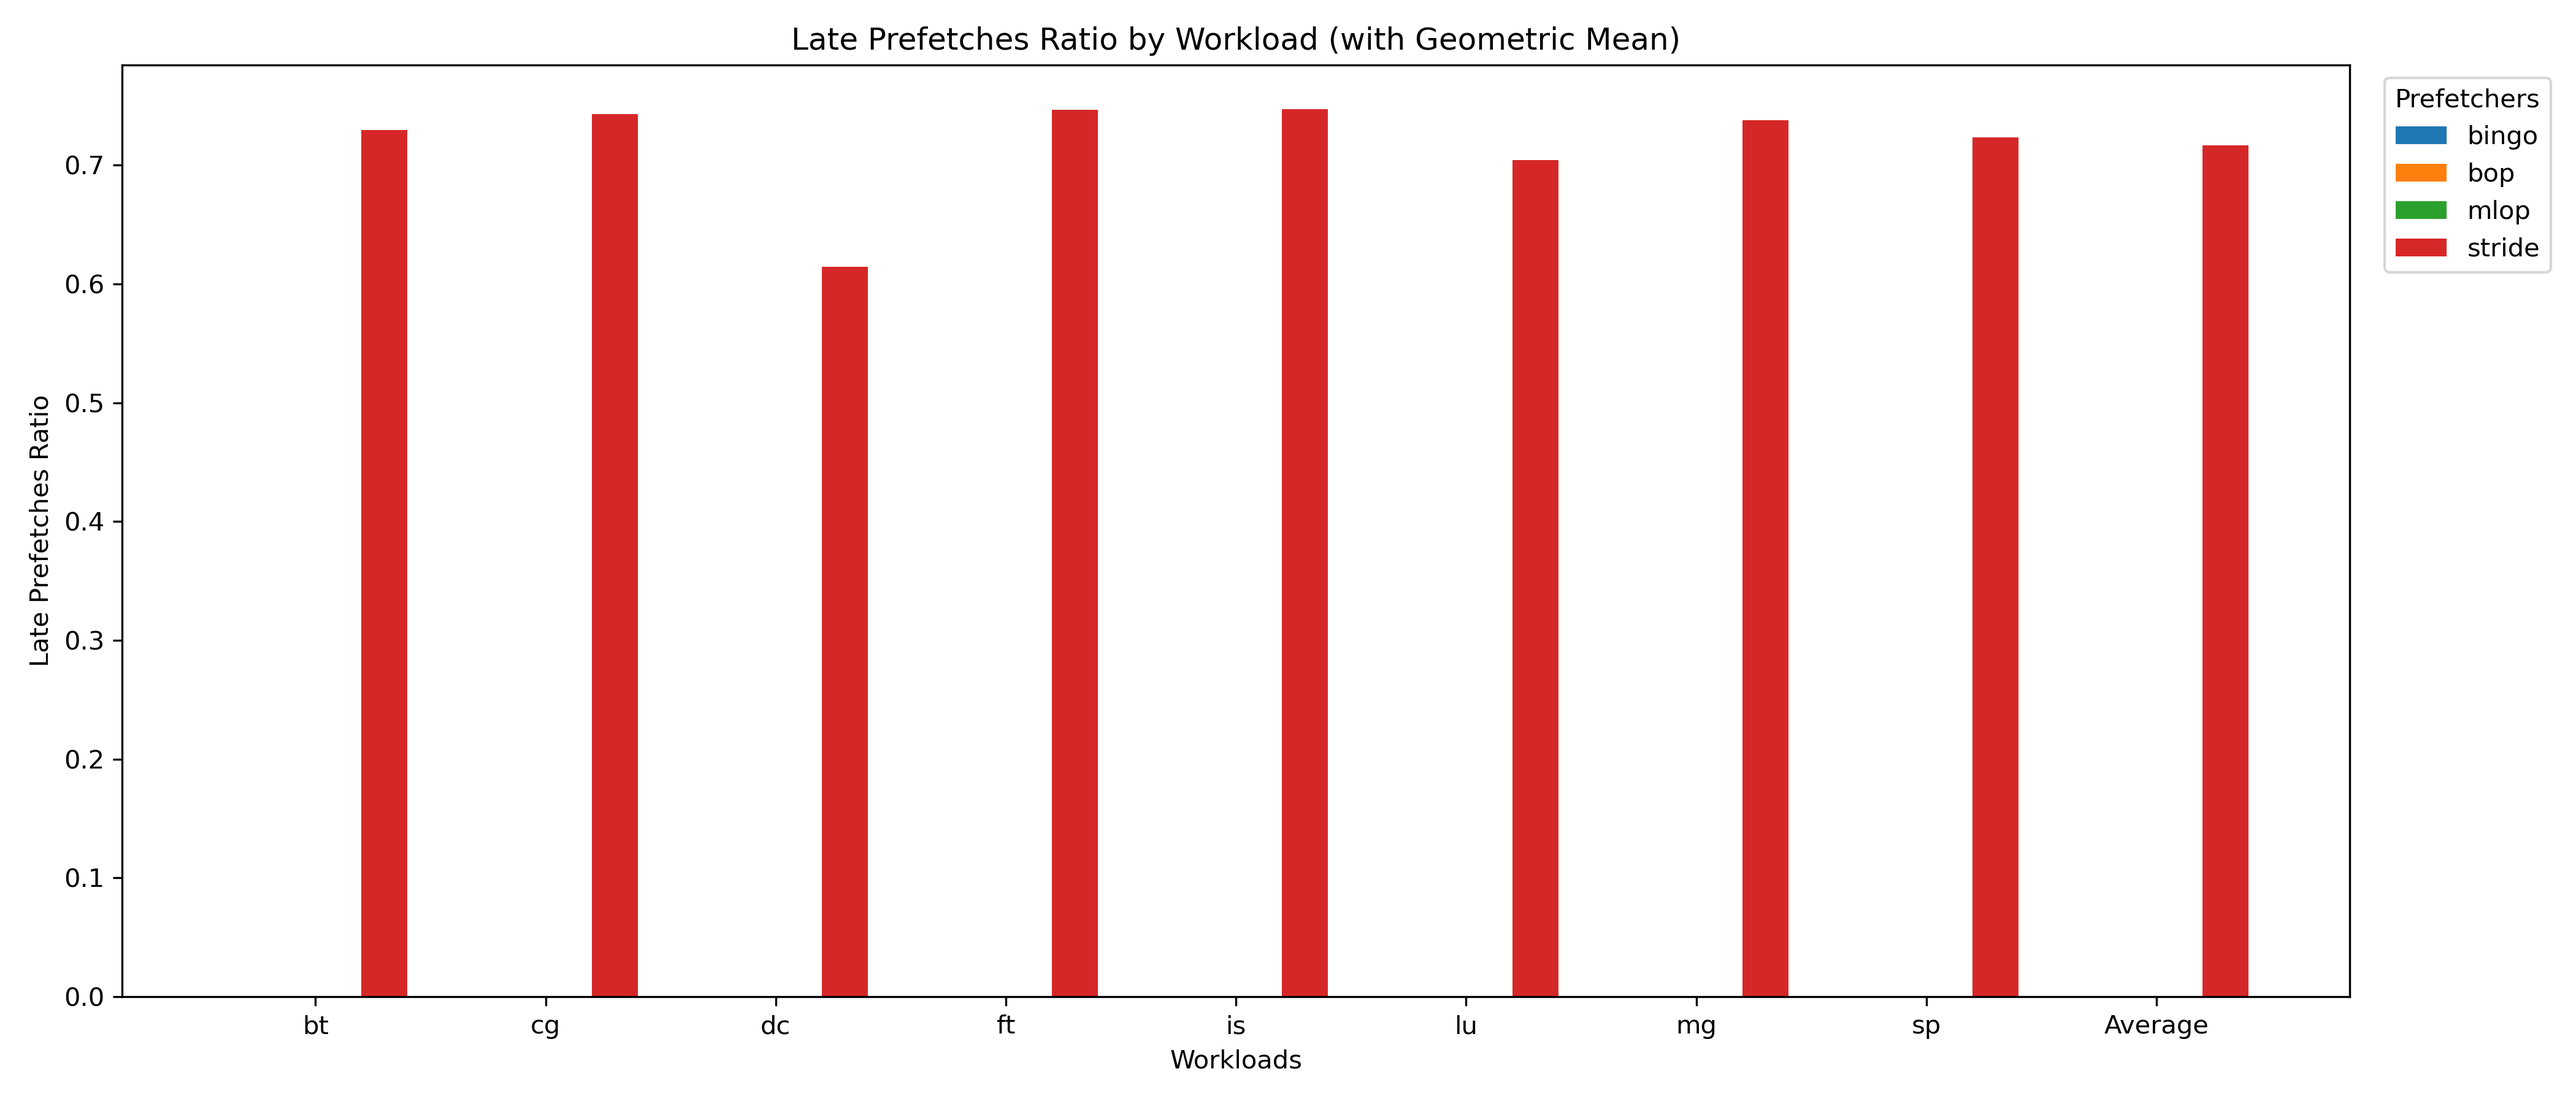
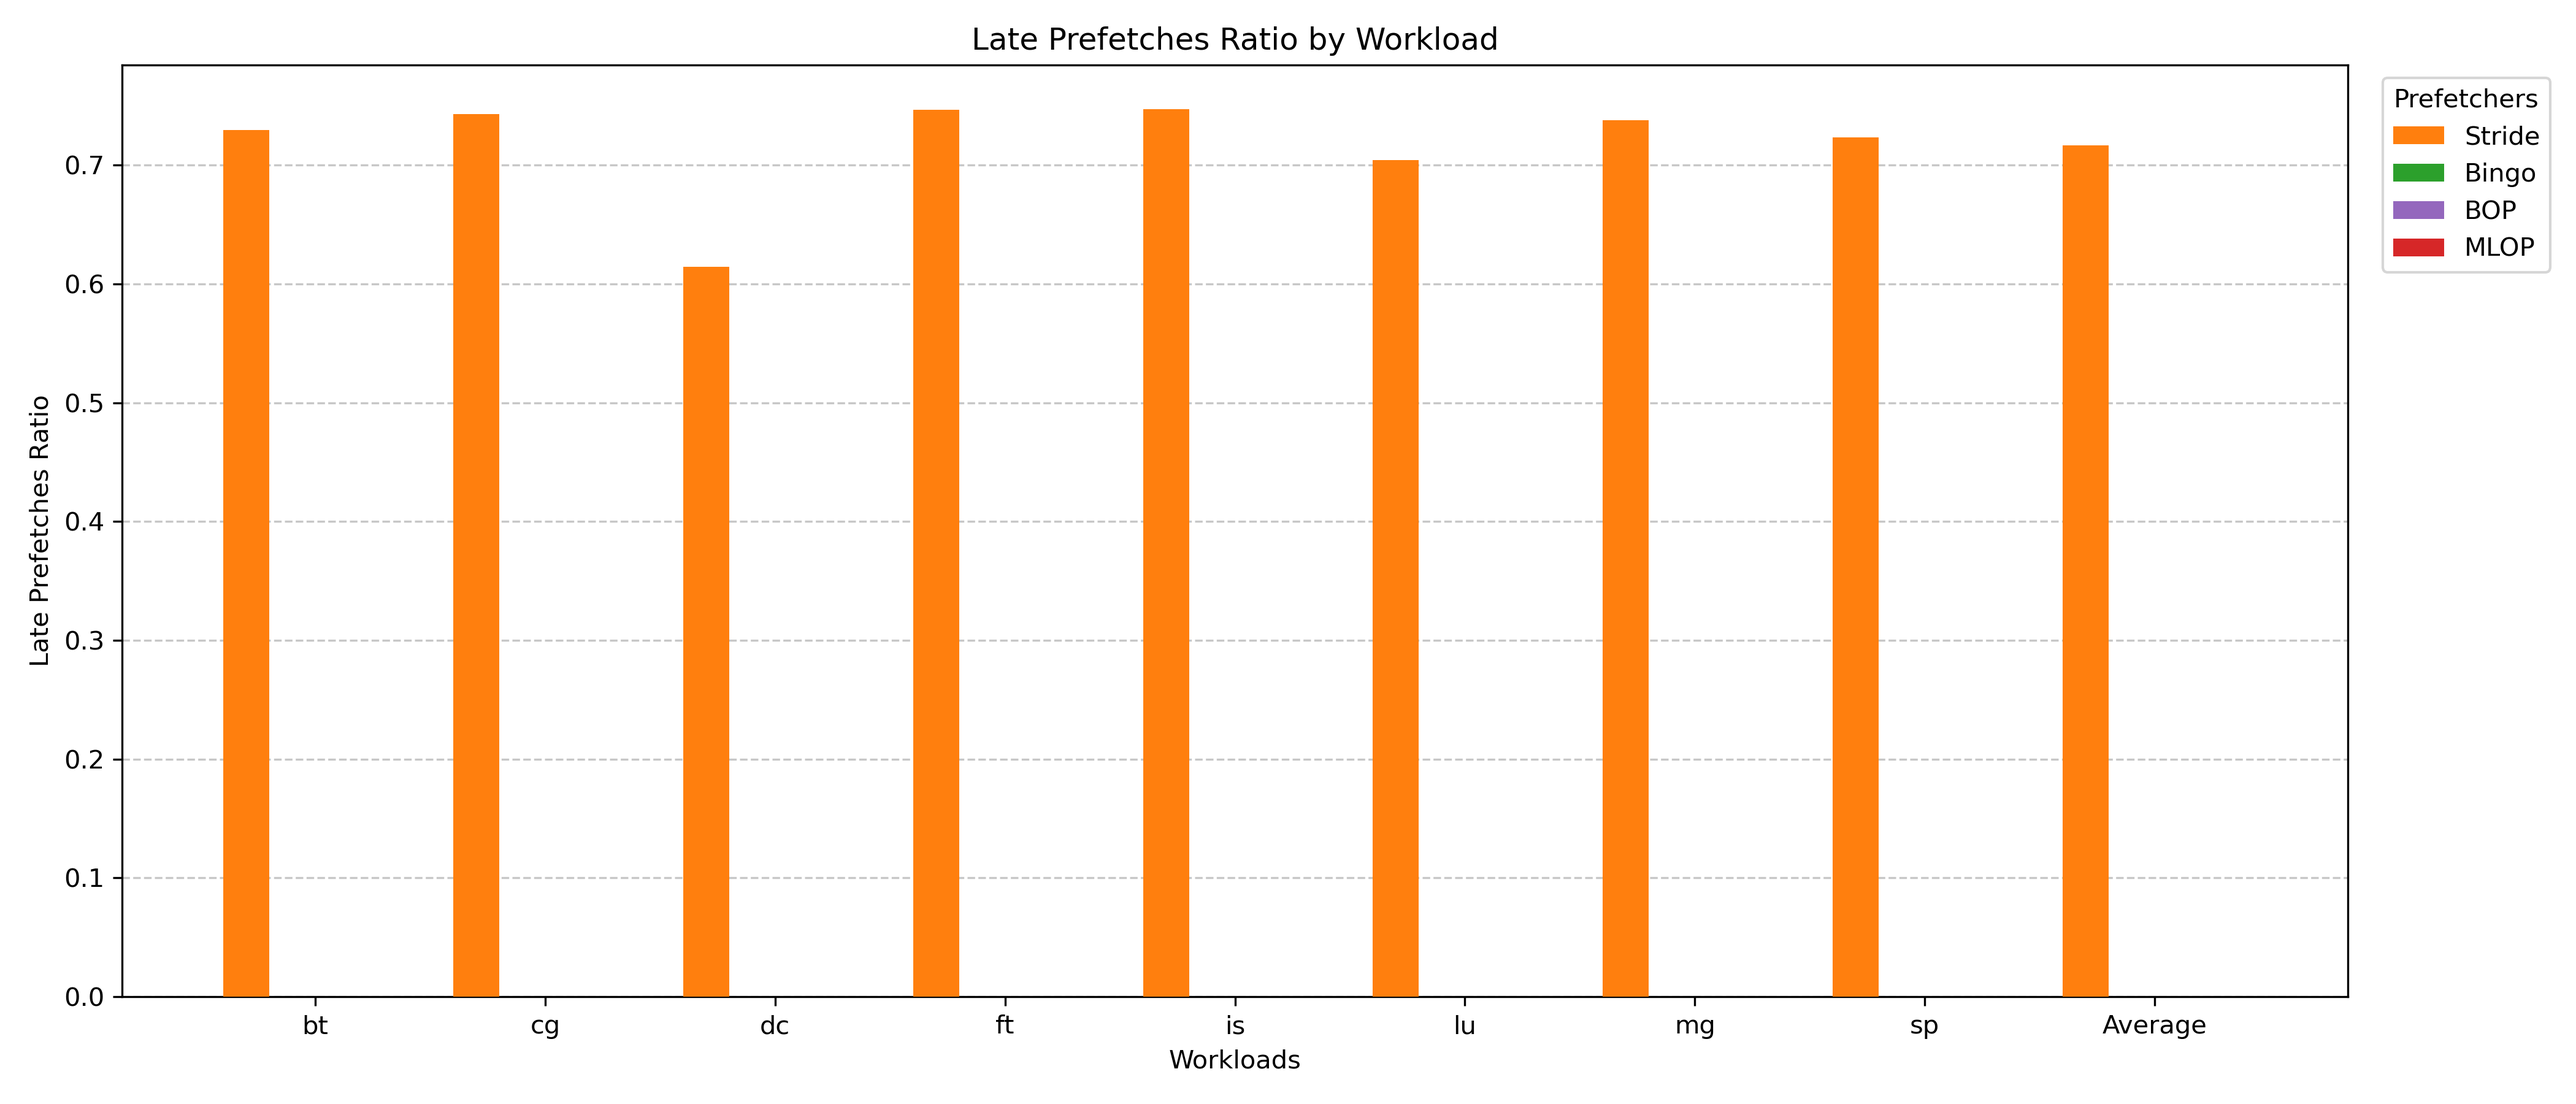
finished graphs

diff --git a/make_graphs_hardcoded.py b/make_graphs_hardcoded.py
@@ -1,0 +1,335 @@
+import os
+import matplotlib.pyplot as plt
+import numpy as np
+
+# Configuration
+M5OUT_DIR = "m5out"  # The root folder containing the prefetcher folders
+OUTPUT_DIR = "stat_graphs" # Where to save the resulting images
+
+# Hardcoded Prefetcher Order (Display Names)
+PREFETCHER_ORDER = ["None", "Stride", "Bingo", "BOP", "MLOP"]
+
+# Hardcoded Colors using RGB Tuples (R, G, B)
+# Values range from 0.0 to 1.0
+PREFETCHER_COLORS = {
+    "None":   (0.121, 0.466, 0.705), # Muted Blue
+    "Stride": (1.000, 0.498, 0.054), # Safety Orange
+    "Bingo":  (0.172, 0.627, 0.172), # Cooked Asparagus Green
+    "BOP":    (0.580, 0.403, 0.741),  # Muted Purple
+    "MLOP":   (0.839, 0.152, 0.156) # Brick Red
+}
+
+# Map specific gem5 stat keys to readable names
+METRICS = [
+    {
+        "name": "IPC",
+        "file_key": "system.cpu.ipc",
+        "is_ratio": False,
+        "prefetch_related": False
+    },
+    {
+        "name": "Prefetch Accuracy",
+        "file_key": "system.l2cache.prefetcher.accuracy",
+        "is_ratio": False,
+        "prefetch_related": True
+    },
+    {
+        "name": "Prefetch Coverage",
+        "file_key": "system.l2cache.prefetcher.coverage",
+        "is_ratio": False,
+        "prefetch_related": True
+    },
+    {
+        "name": "Late Prefetches Ratio",
+        "numerator": "system.l2cache.prefetcher.pfLate",
+        "denominator": "system.l2cache.prefetcher.pfIssued",
+        "is_ratio": True,
+        "prefetch_related": True
+    },
+    {
+        "name": "Unused Prefetches Ratio",
+        "numerator": "system.l2cache.prefetcher.pfUnused",
+        "denominator": "system.l2cache.prefetcher.pfIssued",
+        "is_ratio": True,
+        "prefetch_related": True
+    },
+    {
+        "name": "Total DRAM Read Accesses",
+        "file_key": "system.mem_ctrl.dram.numReads::total",
+        "is_ratio": False,
+        "prefetch_related": False
+    }
+]
+
+def parse_stats_file(filepath):
+    """
+    Parses a gem5 stats.txt file and returns a dictionary of all stats.
+    """
+    stats = {}
+    if not os.path.exists(filepath):
+        return stats
+
+    with open(filepath, 'r') as f:
+        for line in f:
+            if not line.strip() or line.startswith('---'):
+                continue
+            parts = line.split()
+            if len(parts) >= 2:
+                try:
+                    stats[parts[0]] = float(parts[1])
+                except ValueError:
+                    continue
+    return stats
+
+def collect_data():
+    """
+    Traverses m5out/Prefetcher/Workload/stats.txt structure.
+    Returns structured data: data[workload][prefetcher_folder_name][metric_name] = value
+    """
+    data = {}
+    
+    if not os.path.exists(M5OUT_DIR):
+        print(f"Error: Directory '{M5OUT_DIR}' not found.")
+        return None
+
+    prefetchers = [d for d in os.listdir(M5OUT_DIR) if os.path.isdir(os.path.join(M5OUT_DIR, d))]
+    
+    if not prefetchers:
+        print("No prefetcher directories found.")
+        return None
+
+    for prefetcher in prefetchers:
+        prefetcher_path = os.path.join(M5OUT_DIR, prefetcher)
+        workloads = [d for d in os.listdir(prefetcher_path) if os.path.isdir(os.path.join(prefetcher_path, d))]
+        
+        for workload in workloads:
+            if workload not in data:
+                data[workload] = {}
+            
+            stats_file = os.path.join(prefetcher_path, workload, "stats.txt")
+            raw_stats = parse_stats_file(stats_file)
+            
+            data[workload][prefetcher] = {}
+            
+            for metric in METRICS:
+                val = 0.0
+                if metric["is_ratio"]:
+                    num = raw_stats.get(metric["numerator"], 0.0)
+                    denom = raw_stats.get(metric["denominator"], 0.0)
+                    val = num / denom if denom > 0 else 0.0
+                else:
+                    val = raw_stats.get(metric["file_key"], 0.0)
+                
+                data[workload][prefetcher][metric["name"]] = val
+
+    return data
+
+def calculate_geomean(values):
+    a = np.array(values)
+    if len(a) == 0:
+        return 0.0
+    if np.any(a <= 0):
+        return 0.0
+    return np.exp(np.mean(np.log(a)))
+
+def add_average_group(data):
+    if not data:
+        return
+
+    all_prefetchers = set()
+    for w in data:
+        all_prefetchers.update(data[w].keys())
+    
+    average_data = {p: {} for p in all_prefetchers}
+    temp_values = {p: {m['name']: [] for m in METRICS} for p in all_prefetchers}
+
+    for workload in data:
+        for prefetcher in all_prefetchers:
+            p_data = data[workload].get(prefetcher, {})
+            for metric in METRICS:
+                m_name = metric['name']
+                val = p_data.get(m_name, 0.0)
+                temp_values[prefetcher][m_name].append(val)
+
+    for prefetcher in temp_values:
+        for m_name, values in temp_values[prefetcher].items():
+            average_data[prefetcher][m_name] = calculate_geomean(values)
+
+    data['Average'] = average_data
+
+def get_prefetcher_mapping(available_prefetchers):
+    """
+    Creates a mapping from {Display Name -> Real Folder Name}
+    based on case-insensitive matching with PREFETCHER_ORDER.
+    """
+    mapping = {}
+    available_map = {p.lower(): p for p in available_prefetchers}
+    
+    for display_name in PREFETCHER_ORDER:
+        target_lower = display_name.lower()
+        if target_lower in available_map:
+            mapping[display_name] = available_map[target_lower]
+            
+    return mapping
+
+def plot_percent_improvement(data, target_metric="IPC", baseline_name="None"):
+    if not data:
+        return
+
+    if not os.path.exists(OUTPUT_DIR):
+        os.makedirs(OUTPUT_DIR)
+
+    workload_keys = [k for k in data.keys() if k != 'Average']
+    workloads = sorted(workload_keys)
+    if 'Average' in data:
+        workloads.append('Average')
+
+    all_prefetchers_in_data = set()
+    for w in data:
+        all_prefetchers_in_data.update(data[w].keys())
+    
+    pf_map = get_prefetcher_mapping(all_prefetchers_in_data)
+    actual_baseline_key = pf_map.get(baseline_name)
+    
+    if not actual_baseline_key:
+        print(f"Skipping improvement plot: Baseline '{baseline_name}' not found.")
+        return
+
+    sorted_others = []
+    for display_name in PREFETCHER_ORDER:
+        if display_name == baseline_name:
+            continue
+        if display_name in pf_map:
+            sorted_others.append(display_name)
+
+    if not sorted_others:
+        print("Skipping improvement plot: No other prefetchers to compare.")
+        return
+
+    x = np.arange(len(workloads))
+    width = 0.8 / len(sorted_others)
+    fig, ax = plt.subplots(figsize=(14, 6))
+
+    ax.grid(axis='y', linestyle='--', alpha=0.7)
+    ax.axhline(0, color='black', linewidth=0.8)
+
+    for i, display_name in enumerate(sorted_others):
+        actual_key = pf_map[display_name]
+        
+        # Determine Color
+        bar_color = PREFETCHER_COLORS.get(display_name, (0.5, 0.5, 0.5)) # Default to gray
+
+        y_values = []
+        for workload in workloads:
+            base_val = data.get(workload, {}).get(actual_baseline_key, {}).get(target_metric, 0.0)
+            curr_val = data.get(workload, {}).get(actual_key, {}).get(target_metric, 0.0)
+
+            if base_val > 0:
+                pct_improv = ((curr_val - base_val) / base_val) * 100.0
+            else:
+                pct_improv = 0.0
+            
+            y_values.append(pct_improv)
+
+        offset = width * i
+        centering = (width * len(sorted_others)) / 2
+        ax.bar(x + offset - centering + (width/2), y_values, width, label=display_name, color=bar_color, zorder=3)
+
+    ax.set_xlabel('Workloads')
+    ax.set_ylabel(f'% Improvement over {baseline_name}')
+    ax.set_title(f'{target_metric} Percent Improvement over {baseline_name}')
+    ax.set_xticks(x)
+    ax.set_xticklabels(workloads)
+    ax.legend(title="Prefetchers", bbox_to_anchor=(1.01, 1), loc='upper left')
+    
+    plt.tight_layout()
+    filename = f"{target_metric.lower()}_percent_improvement.png"
+    save_path = os.path.join(OUTPUT_DIR, filename)
+    plt.savefig(save_path, dpi=300)
+    print(f"Generated graph: {save_path}")
+    plt.close()
+
+def plot_data(data):
+    if not data:
+        return
+
+    if not os.path.exists(OUTPUT_DIR):
+        os.makedirs(OUTPUT_DIR)
+
+    workload_keys = [k for k in data.keys() if k != 'Average']
+    workloads = sorted(workload_keys)
+    if 'Average' in data:
+        workloads.append('Average')
+    
+    all_prefetchers_in_data = set()
+    for w in data:
+        all_prefetchers_in_data.update(data[w].keys())
+
+    pf_map = get_prefetcher_mapping(all_prefetchers_in_data)
+
+    for metric in METRICS:
+        metric_name = metric["name"]
+        
+        prefetchers_to_plot = [] 
+        
+        for display_name in PREFETCHER_ORDER:
+            if display_name not in pf_map:
+                continue
+                
+            if metric["prefetch_related"] and display_name.lower() == "none":
+                continue
+            
+            prefetchers_to_plot.append((display_name, pf_map[display_name]))
+            
+        if not prefetchers_to_plot:
+            print(f"Skipping plot for {metric_name}: No relevant prefetchers found.")
+            continue
+
+        x = np.arange(len(workloads))
+        width = 0.8 / len(prefetchers_to_plot)
+        fig, ax = plt.subplots(figsize=(14, 6))
+
+        ax.grid(axis='y', linestyle='--', alpha=0.7)
+        
+        for i, (display_name, actual_key) in enumerate(prefetchers_to_plot):
+            # Determine Color
+            bar_color = PREFETCHER_COLORS.get(display_name, (0.5, 0.5, 0.5))
+
+            y_values = []
+            for workload in workloads:
+                val = data.get(workload, {}).get(actual_key, {}).get(metric_name, 0.0)
+                y_values.append(val)
+            
+            offset = width * i
+            centering = (width * len(prefetchers_to_plot)) / 2
+            
+            ax.bar(x + offset - centering + (width/2), y_values, width, label=display_name, color=bar_color, zorder=3)
+
+        ax.set_xlabel('Workloads')
+        ax.set_ylabel(metric_name)
+        ax.set_title(f'{metric_name} by Workload')
+        ax.set_xticks(x)
+        ax.set_xticklabels(workloads)
+        ax.legend(title="Prefetchers", bbox_to_anchor=(1.01, 1), loc='upper left')
+        
+        plt.tight_layout()
+        filename = f"{metric_name.replace(' ', '_').lower()}.png"
+        save_path = os.path.join(OUTPUT_DIR, filename)
+        plt.savefig(save_path, dpi=300)
+        print(f"Generated graph: {save_path}")
+        plt.close()
+
+if __name__ == "__main__":
+    print(f"Scanning directory: {M5OUT_DIR}...")
+    processed_data = collect_data()
+    
+    if processed_data:
+        print(f"Found {len(processed_data)} workloads. Calculating geometric means...")
+        add_average_group(processed_data)
+        
+        plot_data(processed_data)
+        
+        print("Generating improvement graph...")
+        plot_percent_improvement(processed_data, target_metric="IPC", baseline_name="None")
+        
+        print("Done!")
